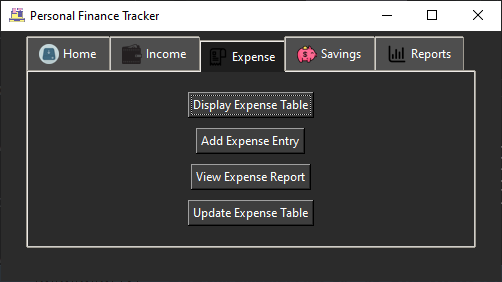
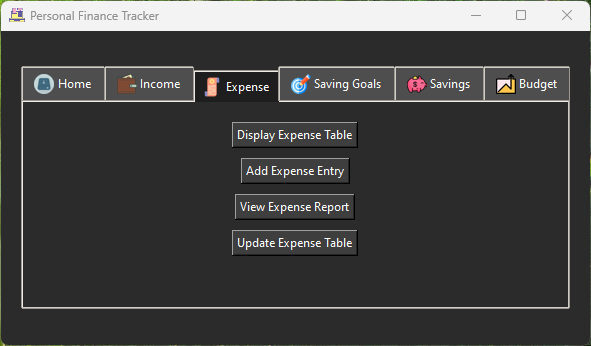
Updated Readme with new screenshots

diff --git a/Readme.md b/Readme.md
@@ -78,13 +78,17 @@ Main Expense GUI Tab:
 
 <img src="assets/screenshots/main_expense_window.PNG" alt="Expense Window" width="400" height="250">
 
+Main Saving Goals GUI Tab:
+
+<img src="assets/screenshots/main_savings_goal_window.PNG" alt="Savings Window" width="400" height="250">
+
 Main Savings GUI Tab:
 
 <img src="assets/screenshots/main_savings_window.PNG" alt="Savings Window" width="400" height="250">
 
-Main Report GUI Tab:
+Main Budget GUI Tab:
 
-<img src="assets/screenshots/main_report_window.PNG" alt="Report Window" width="400" height="250">
+<img src="assets/screenshots/main_budget_window.PNG" alt="Report Window" width="400" height="250">
 
 Example Report Selection GUI:
 
@@ -109,6 +113,14 @@ Example Input Form GUI:
 Example Expense vs Income Graph: 
 
 <img src="assets/screenshots/comparison_bar_graph_window.PNG" alt="Input Form" width="400" height="250">
+
+Example CSV Editor: 
+
+<img src="assets/screenshots/sample_csv_editor.PNG" alt="CSV Editor" width="400" height="250">
+
+Sample CSV Importer: 
+
+<img src="assets/screenshots/sample_csv_importer.PNG" alt="CSV Importer" width="400" height="250">
 
 <!-- <table style="table-layout: fixed; width: 100%;">
     <tr>
